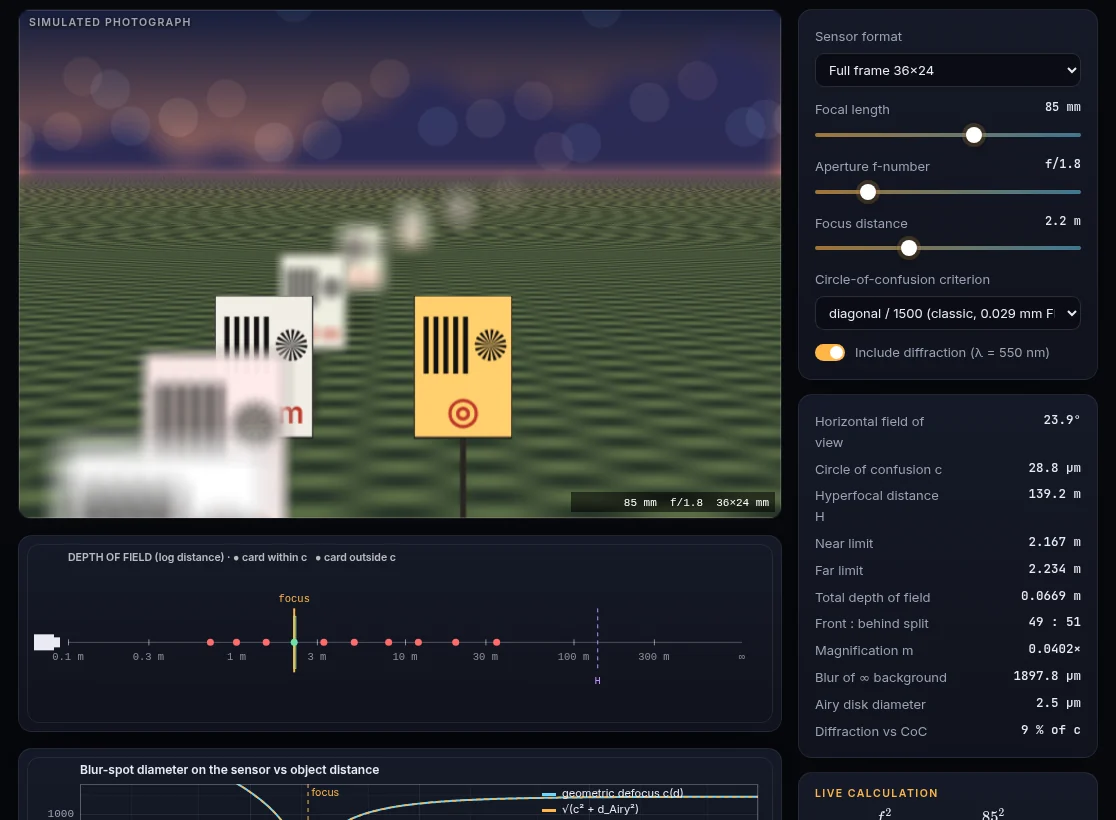
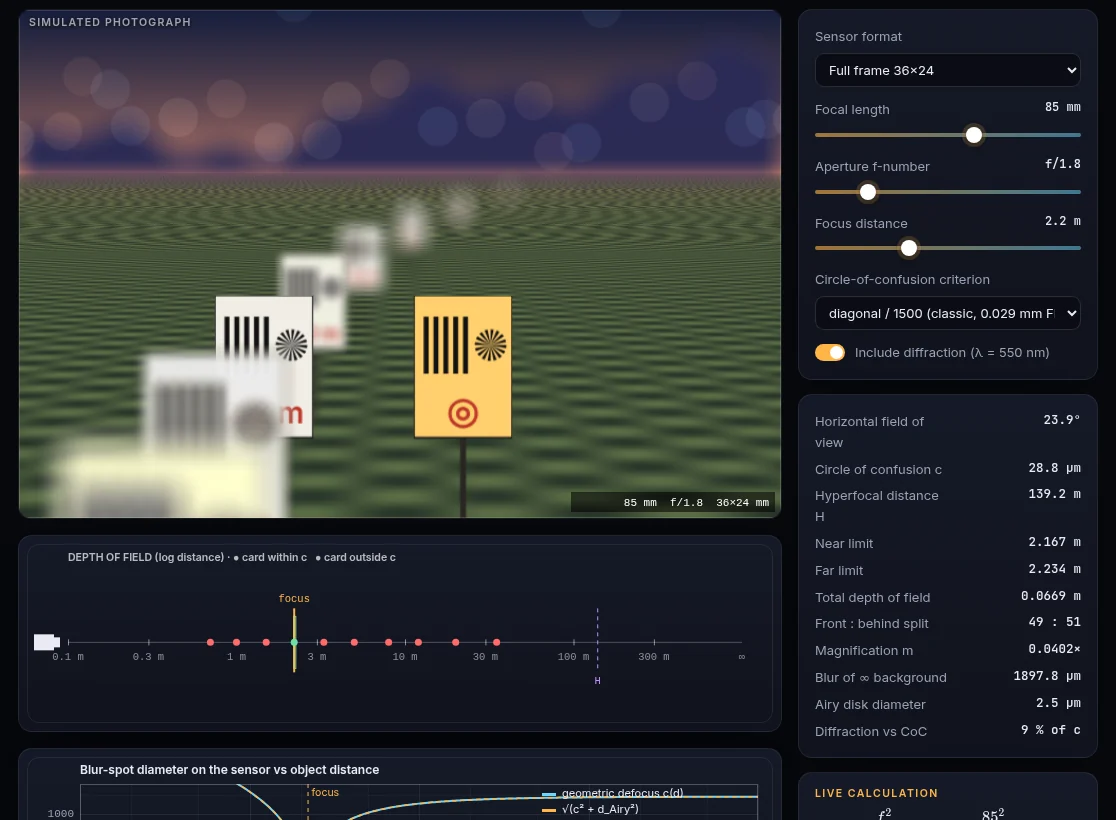
fix(blur): Safari-safe Gaussian blur replacing ctx.filter (#3)
Safari ships CanvasRenderingContext2D.filter disabled, so DoF and tilt-shift blurs rendered sharp. js/lib/blur.js implements a three-box-pass Gaussian with premultiplied alpha; DoF now blurs the source once instead of per tap (equivalent, faster). Verified against the old path within 2/255 per channel.

Changed region(s): [[0.0609, 0.5183, 0.2437, 0.6402]]

diff --git a/js/lib/blur.js b/js/lib/blur.js
@@ -1,0 +1,77 @@
+// Gaussian blur without CanvasRenderingContext2D.filter (disabled in Safari).
+// Three successive box blurs approximate a Gaussian of standard deviation σ
+// (central limit theorem; box widths from Kovesi 2010), each pass O(1) per pixel
+// via a running sum. Alpha is handled by premultiplication so edges stay clean.
+
+// Box widths whose three-fold convolution has variance σ².
+export function boxesForGauss(sigma, n = 3) {
+  const wIdeal = Math.sqrt((12 * sigma * sigma) / n + 1);
+  let wl = Math.floor(wIdeal); if (wl % 2 === 0) wl--;
+  const wu = wl + 2;
+  const m = Math.round((12 * sigma * sigma - n * wl * wl - 4 * n * wl - 3 * n) / (-4 * wl - 4));
+  return Array.from({ length: n }, (_, i) => (i < m ? wl : wu));
+}
+
+// one horizontal and one vertical running-sum box pass of radius r (edge-clamped)
+function boxPass(src, dst, w, h, r) {
+  const k = 1 / (2 * r + 1);
+  for (let y = 0; y < h; y++) {
+    const row = y * w;
+    let acc = 0;
+    for (let i = -r; i <= r; i++) acc += src[row + Math.min(w - 1, Math.max(0, i))];
+    for (let x = 0; x < w; x++) {
+      dst[row + x] = acc * k;
+      acc += src[row + Math.min(w - 1, x + r + 1)] - src[row + Math.max(0, x - r)];
+    }
+  }
+  for (let x = 0; x < w; x++) {
+    let acc = 0;
+    for (let i = -r; i <= r; i++) acc += dst[Math.min(h - 1, Math.max(0, i)) * w + x];
+    for (let y = 0; y < h; y++) {
+      src[y * w + x] = acc * k;
+      acc += dst[Math.min(h - 1, y + r + 1) * w + x] - dst[Math.max(0, y - r) * w + x];
+    }
+  }
+}
+
+// Blur a single Float32Array plane in place.
+export function gaussianBlurPlane(plane, w, h, sigma) {
+  if (sigma < 0.3) return plane;
+  const tmp = new Float32Array(plane.length);
+  for (const b of boxesForGauss(sigma)) boxPass(plane, tmp, w, h, (b - 1) >> 1);
+  return plane;
+}
+
+// Blur RGBA bytes (ImageData.data); returns a new Uint8ClampedArray.
+export function gaussianBlurRGBA(data, w, h, sigma) {
+  const n = w * h, out = new Uint8ClampedArray(data.length);
+  if (sigma < 0.3) { out.set(data); return out; }
+  const A = new Float32Array(n), C = [0, 1, 2].map(() => new Float32Array(n));
+  for (let i = 0; i < n; i++) {
+    const a = data[i * 4 + 3] / 255; A[i] = a;
+    for (let c = 0; c < 3; c++) C[c][i] = data[i * 4 + c] * a; // premultiply
+  }
+  gaussianBlurPlane(A, w, h, sigma);
+  C.forEach((p) => gaussianBlurPlane(p, w, h, sigma));
+  for (let i = 0; i < n; i++) {
+    const a = A[i];
+    for (let c = 0; c < 3; c++) out[i * 4 + c] = a > 1e-6 ? C[c][i] / a : 0;
+    out[i * 4 + 3] = a * 255;
+  }
+  return out;
+}
+
+// Blur a canvas/image into a new canvas padded by ~3σ so the blur is not clipped.
+export function blurredCanvas(src, sigma) {
+  const pad = Math.ceil(3 * sigma);
+  const c = document.createElement('canvas');
+  c.width = src.width + 2 * pad; c.height = src.height + 2 * pad;
+  const g = c.getContext('2d');
+  g.drawImage(src, pad, pad);
+  if (sigma >= 0.3) {
+    const im = g.getImageData(0, 0, c.width, c.height);
+    im.data.set(gaussianBlurRGBA(im.data, c.width, c.height, sigma));
+    g.putImageData(im, 0, 0);
+  }
+  return { canvas: c, pad };
+}

diff --git a/js/modules/dof.js b/js/modules/dof.js
@@ -4,6 +4,7 @@ import { SENSORS, diag, pitchUm } from '../lib/sensors.js';
 import { besselJ1 } from '../lib/pupil.js';
 import { plot, logRange } from '../lib/plot.js';
 import { blurDiameter as blur, hyperfocal, dofLimits } from '../lib/optics.js';
+import { blurredCanvas } from '../lib/blur.js';
 
 const LAMBDA = 0.00055; // mm
 const CARDS = [0.7, 1, 1.5, 2.2, 3.3, 5, 8, 12, 20, 35];
@@ -12,24 +13,25 @@ const cardAngle = (i) => (-9 + (i * 14) / (CARDS.length - 1)) * Math.PI / 180;
 
 const diskMTF = (x) => (Math.abs(x) < 1e-6 ? 1 : (2 * besselJ1(Math.PI * x)) / (Math.PI * x));
 
-// Draw `img` convolved with a uniform disk of radius r (px) — Vogel-spiral tap accumulation
-// on an additive scratch layer (exact average), softened by a small Gaussian between taps.
+// Draw `img` convolved with a uniform disk of radius r (px): Vogel-spiral taps accumulated on
+// an additive scratch layer (an exact average), softened by a small Gaussian between taps.
+// Blurring commutes with shifting and summing, so the source is blurred once up front.
 function diskBlit(ctx, img, x, y, r) {
   if (r < 0.6) { ctx.drawImage(img, x, y); return; }
   const n = Math.min(72, Math.max(10, Math.round(r * 2.2)));
+  const soft = Math.max(0, (r / Math.sqrt(n)) * 0.9);
+  const { canvas: src, pad: sp } = blurredCanvas(img, soft > 0.4 ? soft : 0);
   const pad = Math.ceil(r + 4);
   const tmp = document.createElement('canvas');
-  tmp.width = img.width + 2 * pad; tmp.height = img.height + 2 * pad;
+  tmp.width = src.width + 2 * pad; tmp.height = src.height + 2 * pad;
   const t = tmp.getContext('2d');
   t.globalCompositeOperation = 'lighter';
   t.globalAlpha = 1 / n;
-  const soft = Math.max(0, (r / Math.sqrt(n)) * 0.9);
-  if (soft > 0.4) t.filter = `blur(${soft.toFixed(2)}px)`;
   for (let i = 0; i < n; i++) {
     const rho = r * Math.sqrt((i + 0.5) / n), ph = i * 2.399963229728653;
-    t.drawImage(img, pad + rho * Math.cos(ph), pad + rho * Math.sin(ph));
+    t.drawImage(src, pad + rho * Math.cos(ph), pad + rho * Math.sin(ph));
   }
-  ctx.drawImage(tmp, x - pad, y - pad);
+  ctx.drawImage(tmp, x - pad - sp, y - pad - sp);
 }
 
 function cardImage(wpx, hpx, label, subject) {

diff --git a/js/modules/tiltshift.js b/js/modules/tiltshift.js
@@ -1,6 +1,7 @@
 import { h, controls, stage, readouts, imageCanvas, texNum } from '../lib/ui.js';
 import { header, lab, theory, references, liveCalc } from '../lib/page.js';
 import { tiltedLens, tiltedImage, tiltedObject } from '../lib/optics.js';
+import { gaussianBlurRGBA } from '../lib/blur.js';
 
 // ── toy town: houses (boxes) and trees (spheres) bucketed in a 12 m cell grid ──────────
 const CELL = 12, GX0 = -5, GX1 = 5, GZ0 = 0, GZ1 = 14;
@@ -124,11 +125,8 @@ export default function mount(root, meta) {
     const src = imageCanvas(W, H);
     for (let k = 0; k < W * H; k++) { src.data[k * 4] = base[k * 3]; src.data[k * 4 + 1] = base[k * 3 + 1]; src.data[k * 4 + 2] = base[k * 3 + 2]; src.data[k * 4 + 3] = 255; }
     src.put();
-    const stack = levels.map((r) => {
-      const c = document.createElement('canvas'); c.width = W; c.height = H;
-      const g = c.getContext('2d'); if (r > 0) g.filter = `blur(${(r / 2).toFixed(2)}px)`;
-      g.drawImage(src.c, 0, 0); return g.getImageData(0, 0, W, H).data;
-    });
+    const srcData = src.cx.getImageData(0, 0, W, H).data;
+    const stack = levels.map((r) => gaussianBlurRGBA(srcData, W, H, r / 2));
     const out = imageCanvas(W, H);
     for (let k = 0; k < W * H; k++) {
       const b = blur[k]; let li = 0; while (li < levels.length - 2 && levels[li + 1] < b) li++;

diff --git a/README.md b/README.md
@@ -458,6 +458,8 @@ Optica_Viva/
 │   ├── app.js                 Laboratory registry, hash router, navigation
 │   ├── lib/                   Numerical core (pure functions, no DOM unless noted)
 │   │   ├── fft.js             Radix-2 complex FFT, 2-D FFT, fftshift
+│   │   ├── blur.js            Safari-safe Gaussian blur (3 box passes, premultiplied alpha)
+│   │   ├── optics.js          DoF, tilted-lens (Scheimpflug) and ΛCDM formulas
 │   │   ├── color.js           CIE 1931 CMFs, sRGB, colormaps (inferno, viridis, magma)
 │   │   ├── glass.js           Sellmeier catalogue, Abbe number, partial dispersion
 │   │   ├── raytrace.js        Exact ray tracer, paraxial analysis, ray aiming, OPD
@@ -470,7 +472,7 @@ Optica_Viva/
 │   └── modules/               One file per page (22)
 ├── vendor/katex/              KaTeX 0.16.11 (MIT), vendored for offline use
 ├── docs/screenshots/          README images (generated)
-├── test/physics.test.mjs      Physics validation suite (node --test)
+├── test/                      Physics and blur test suites (node --test)
 ├── .github/workflows/
 │   ├── ci.yml                 CI: syntax & links, physics tests, browser smoke test
 │   └── pages.yml              Deploys main to GitHub Pages
@@ -531,7 +533,7 @@ Every page states its model's assumptions. The main simplifications are:
 | | Chrome / Edge | Firefox | Safari |
 |---|---|---|---|
 | All laboratories | ✅ | ✅ | ✅ |
-| `ctx.filter` blur (DoF, tilt-shift, bokeh softening) | ✅ | ✅ | ⚠ disabled by default in Safari (≤ 26.5): those blurs render sharp until the in-house blur lands in [v1.1](ROADMAP.md#v11-robustness-testing--deployment) |
+| Blur in DoF and tilt-shift (in-house Gaussian, no `ctx.filter`) | ✅ | ✅ | ✅ |
 
 The heavier pages run 256²–512² FFTs or ray-cast hundreds of thousands of rays per update: seeing (animated), coronagraph, tilt-shift, PSF and projection. They are fluid on a modern desktop and noticeably slower on low-power devices such as a Raspberry Pi. Computations are debounced while you drag sliders.
 

diff --git a/ROADMAP.md b/ROADMAP.md
@@ -145,7 +145,7 @@ An audit of v1.0.1 (code, performance, layout, accessibility and browser compati
 
 *Goal: every user on every browser sees correct results, and every physics claim is guarded by a test.*
 
-- [ ] **P1 · M** Replace `ctx.filter` blur with an in-house **separable/disk blur** (summed-area table for the box approximation, or an exact disk via the FFT already in `fft.js`). Fixes Safari (A1) and makes the tilt-shift kernel a true disk.
+- [x] **P1 · M** Replace `ctx.filter` blur with an in-house **separable/disk blur** (summed-area table for the box approximation, or an exact disk via the FFT already in `fft.js`). Fixes Safari (A1). *Done with a three-box Gaussian (`js/lib/blur.js`); the true-disk tilt-shift kernel moves to v1.4.*
 - [x] **P1 · M** **Physics test suite** with `node --test` and no dependencies. Turn every row of the README validation table into an assertion: Sellmeier indices, EFLs, Fresnel/MgF₂ reflectance, Brewster, Airy encircled energy, Rayleigh dip, hinge rule, ΛCDM distances, hyperfocal distance, cos⁴.
 - [x] **P1 · S** **GitHub Actions CI**: `node --check`, the test suite, Markdown link check, and a headless-browser smoke test of every page. (A Mermaid parse check was dropped; it would need a browser bundle.)
 - [x] **P1 · S** **GitHub Pages deployment** from `main`, with a live-demo badge in the README. Live at <https://iiogurt.github.io/Optica_Viva/>; `main` is protected by required CI checks.

diff --git a/CHANGELOG.md b/CHANGELOG.md
@@ -19,6 +19,7 @@ The format follows [Keep a Changelog](https://keepachangelog.com/en/1.1.0/), and
 - `scripts/release.sh` now also runs the physics test suite before releasing.
 
 ### Fixed
+- **Safari:** depth-of-field, bokeh-softening and tilt-shift blurs no longer depend on `CanvasRenderingContext2D.filter`, which Safari ships disabled. The new `js/lib/blur.js` is an O(1)-per-pixel Gaussian (three box passes, premultiplied alpha), tested in `test/blur.test.mjs`. In the depth-of-field lab the source is blurred once instead of once per kernel tap, which is equivalent because blurring commutes with shifting and summing, and faster.
 - cos⁴ falloff at the corner of a 28 mm full-frame lens (37.7°) is −1.35 EV, not −1.30 EV (README validation table and vignetting theory). Found by the new test suite.
 
 ## [1.0.3] - 2026-10-12
